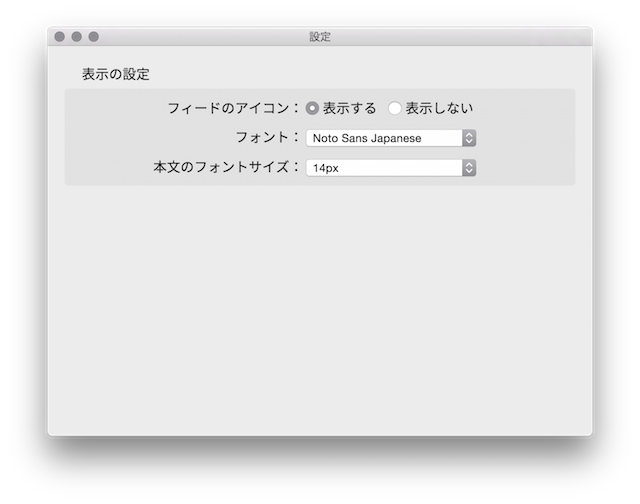
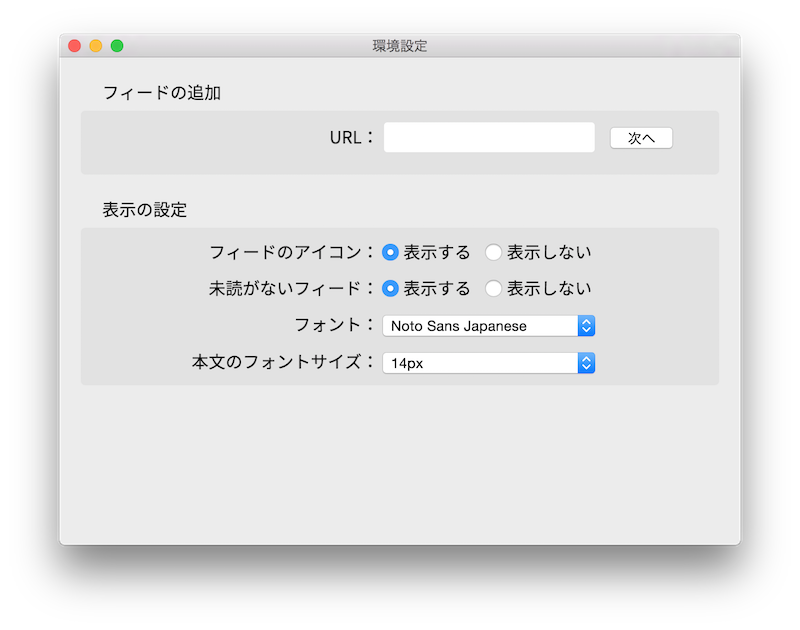
キャプチャを更新

diff --git a/README.md b/README.md
@@ -79,6 +79,6 @@ $ npm start
 ## 設定
 
 アプリのメニューか、キーボードショートカットで設定を開くことができます。
-フィード一覧のアイコンの表示・非表示、フォント、本文のフォントサイズを変更することができます。
+フィードの登録、フィード一覧のアイコンの表示・非表示、未読のないフィードの表示・非表示、フォント、本文のフォントサイズを変更することができます。
 
 ![capture3](capture3.png)
